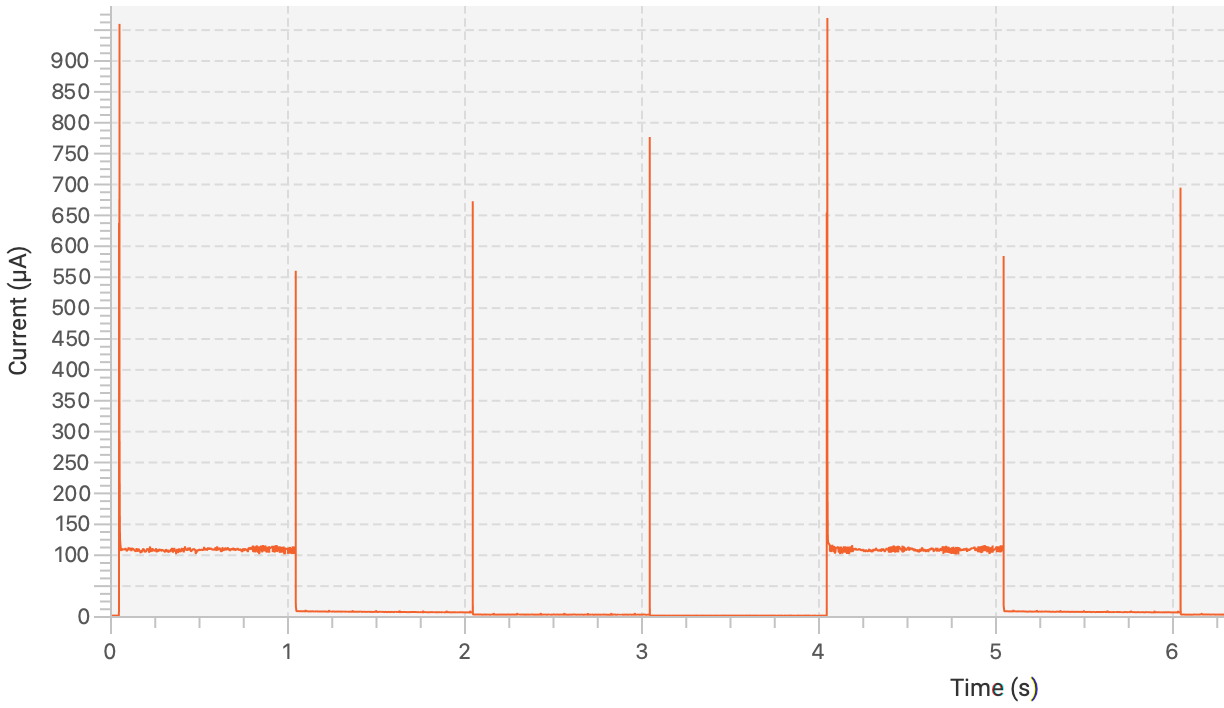
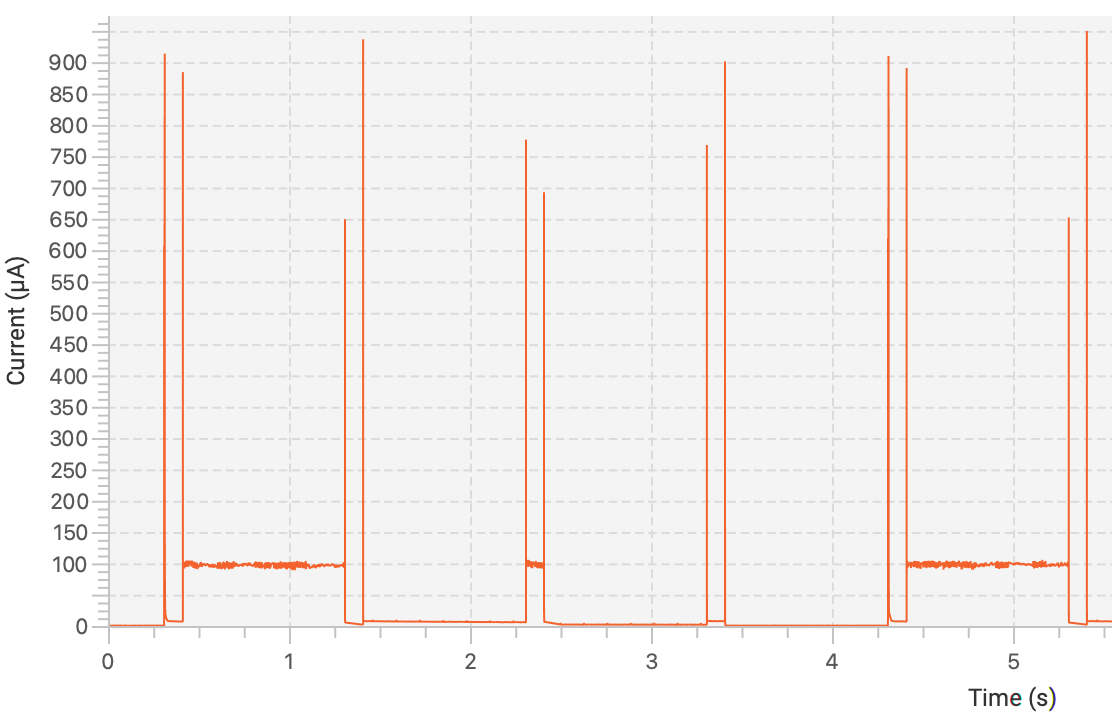
various changes, alternating deepSleep/alarm calls fixed

diff --git a/src/stm32.cpp b/src/stm32.cpp
@@ -33,7 +33,7 @@ using namespace jeeh;
 //------------------------------------------------------------------------ SWO
 
 #if !(STM32G0 | STM32L0) // Cortex M0+ doesn't support ITM
-                         //
+
 void jeeh::swoInit (uint32_t baud, uint32_t hz) {
     constexpr IoReg<0xE000'0000> ITM;
     enum { TER=0xE00, TPR=0xE40, TCR=0xE80, LAR=0xFB0 };
@@ -264,34 +264,30 @@ void init (bool lse) {
     RCC[BDCR](15) = 1;                // RTCEN
 
     RTC[WPR] = 0xCA;  // disable write protection, [1] p.803
-    RTC[WPR] = 0x53;
+    RTC[WPR] = 0x53;  // ... and leave it unlocked from now on
+
     RTC[CR](5) = 1;   // BYPSHAD, this is faster than waiting for RSF
-    RTC[WPR] = 0xFF;  // re-enable write protection
+
+    SCB[0x10](4) = 1; // SEVONPEND
 }
 
 void sleepNow (int mode) {
-    // TODO probably needs a BlockIRQ here
+    BlockIRQ irq;
     PWR[0x00](0, 3) = mode; // CR1: LPMS
-    SCB[0x10](4) = 1; // SEVONPEND
     SCB[0x10](2) = 1; // SLEEPDEEP
     asm ("wfe");
     SCB[0x10](2) = 0; // ~SLEEPDEEP
 }
 
-void deepSleep (uint16_t ms, int mode) {
+bool deepSleep (uint16_t ms, int mode) {
     assert(ms <= 16'000);
     auto sel = 3;
-    auto count = (1000*ms) / 61;
+    auto count = (100'000*ms) / 6104; // 61.035 us, but need to avoid overflow
     while (count >= 32768) {
         --sel;
         count /= 2;
     }
-
-#if STM32G4 | STM32WL
-    RTC[SCR] = 1<<2;    // CWUTF
-#else
-    RTC[ISR](10) = 0;   // clear WUTF
-#endif
+    assert(sel >= 0);
 
 #if STM32WL
     EXTI[0x00](20) = 1; // RT20 in RTSR1
@@ -301,31 +297,48 @@ void deepSleep (uint16_t ms, int mode) {
     EXTI[0x04](20) = 1; // EM20 in EMR1
 #endif
 
-    RTC[WPR] = 0xCA;             // disable write protection
-    RTC[WPR] = 0x53;
     RTC[CR](10) = 0;             // ~WUTE
-    while (RTC[ISR](2) == 0) {} // wait for WUTWF
+    while (RTC[ISR](2) == 0) {}  // wait for WUTWF
 
     RTC[WUTR] = count;
     RTC[CR](0,3) = sel;
 
     RTC[CR](14) = 1;             // WUTIE
     RTC[CR](10) = 1;             // WUTE
-    RTC[WPR] = 0xFF;             // re-enable write protection
 
-    auto todLast = towMillis();
+    auto todLast = getDate().todMillis();
     sleepNow(mode);
-    ticker.skip(towMillis() - todLast); // TODO wraparound
+    ticker.skip(getDate().todMillis() - todLast); // TODO wraparound
+
+    RTC[CR](10) = 0;    // ~WUTE: always disable, even if it didn't trigger
+    if (!RTC[ISR](10))  // ~WUTF
+        return false;
+
+#if STM32G4 | STM32WL
+    RTC[SCR] = 1<<2;    // CWUTF
+#else
+    RTC[ISR](10) = 0;   // clear WUTF
+#endif
+    return true;
 }
 
-void alarm (uint32_t ms, int mode) {
-    (void) ms;
+bool waitAlarm (int mode) {
+    sleepNow(mode);
+
+    if (!RTC[ISR](8))   // ~ALRAF
+        return false;
+    RTC[CR](8) = 0;     // ~ALRAE: only disable once it has triggered
 
 #if STM32G4 | STM32WL
     RTC[SCR] = 1<<0;    // CALRAF
 #else
     RTC[ISR](8) = 0;    // clear ALRAF
 #endif
+    return true;
+}
+
+bool alarm (uint32_t ms, int mode) {
+    (void) ms;
 
 #if STM32WL
     EXTI[0x00](18) = 1; // RT18 in RTSR1
@@ -335,8 +348,6 @@ void alarm (uint32_t ms, int mode) {
     EXTI[0x04](18) = 1; // EM18 in EMR1
 #endif
 
-    RTC[WPR] = 0xCA;             // disable write protection
-    RTC[WPR] = 0x53;
     RTC[CR](8) = 0;             // ~ALRAE
     while (RTC[ISR](0) == 0) {} // wait for ALRAWF
 
@@ -347,9 +358,8 @@ void alarm (uint32_t ms, int mode) {
 
     RTC[CR](12) = 1;             // ALRAIE
     RTC[CR](8) = 1;              // ALRAE
-    RTC[WPR] = 0xFF;             // re-enable write protection
 
-    sleepNow(mode);
+    return waitAlarm(mode);
 }
 
 DateTime getDate () {
@@ -365,7 +375,7 @@ DateTime getDate () {
     dt.ss = (tod & 0xF) + 10 * ((tod>>4) & 0x7);
     dt.mm = ((tod>>8) & 0xF) + 10 * ((tod>>12) & 0x7);
     dt.hh = ((tod>>16) & 0xF) + 10 * ((tod>>20) & 0x3);
-    dt.ww = (doy>>13) & 0x7;
+    dt.wd = (doy>>13) & 0x7;
     dt.dy = (doy & 0xF) + 10 * ((doy>>4) & 0x3);
     dt.mo = ((doy>>8) & 0xF) + 10 * ((doy>>12) & 0x1);
     // works until end 2063, will fail (i.e. roll over) in 2064 !
@@ -377,15 +387,7 @@ uint32_t getSecs () {
     return getDate(); // let DateTime::operator uint32_t do the conversion
 }
 
-uint32_t towMillis () {
-    auto dt = rtc::getDate();
-    return (((((dt.ww-1)*7)+dt.hh)*60+dt.mm-1)*60+dt.ss)*1000+(dt.ff*1000)/256;
-}
-
 void set (DateTime const& dt) {
-    RTC[WPR] = 0xCA;  // disable write protection, [1] p.803
-    RTC[WPR] = 0x53;
-
     RTC[ISR](7) = 1;             // set INIT
     while (RTC[ISR](6) == 0) {}  // wait for INITF
     RTC[TR] = (dt.ss + 6 * (dt.ss/10)) |
@@ -395,8 +397,6 @@ void set (DateTime const& dt) {
         ((dt.mo + 6 * (dt.mo/10)) << 8) |
         ((dt.yr + 6 * (dt.yr/10)) << 16);
     RTC[ISR](7) = 0;             // clear INIT
-
-    RTC[WPR] = 0xFF;  // re-enable write protection
 }
 
 uint32_t getReg (int reg) {

diff --git a/include/arch/sys.h b/include/arch/sys.h
@@ -195,15 +195,15 @@ class DateTime {
     }
 
 public:
-    uint8_t yr, mo, dy, ww, hh, mm, ss, ff =0;
+    uint8_t yr, mo, dy, wd, hh, mm, ss, ff =0;
 
     constexpr DateTime (int y, int m, int d, int h =0, int i =0, int s =0)
-        : yr (y % 100), mo (m), dy (d), ww (1), hh (h), mm (i), ss (s) {}
+        : yr (y % 100), mo (m), dy (d), wd (1), hh (h), mm (i), ss (s) {}
 
     // sample input: d = "Jan  1 2000", t = "12:34:56"
     constexpr DateTime (char const* d =__DATE__, char const* t =__TIME__)
         : yr (conv2d(d+9)), mo (month2d(d)), dy (conv2d(d+4)),
-          ww (1), hh (conv2d(t)), mm (conv2d(t+3)), ss (conv2d(t+6)) {}
+          wd (1), hh (conv2d(t)), mm (conv2d(t+3)), ss (conv2d(t+6)) {}
 
     explicit DateTime (uint32_t t) {
         ss = t % 60;
@@ -212,7 +212,7 @@ public:
         t /= 60;
         hh = t % 24;
         uint16_t days = t / 24;
-        ww = days % 7 + 1;
+        wd = days % 7 + 1;
         uint8_t leap;
         for (yr = 0; ; ++yr) {
             leap = yr % 4 == 0;
@@ -240,6 +240,10 @@ public:
         days += 365 * yr + (yr + 3) / 4 - 1;
         return ((days * 24L + hh) * 60 + mm) * 60 + ss;
     }
+
+    uint32_t todMillis () {
+        return ((hh*60 + mm-1)*60 + ss)*1000 + (ff*1000)/256;
+    }
 };
 
 namespace rtc {
@@ -247,12 +251,11 @@ namespace rtc {
     void init (bool lse =true);
     void deinit ();
 
-    void deepSleep (uint16_t ms, int mode =0);
-    void alarm (uint32_t ms, int mode =0);
+    bool deepSleep (uint16_t ms, int mode =0);
+    bool alarm (uint32_t ms, int mode =0);
 
     DateTime getDate ();
     uint32_t getSecs ();
-    uint32_t towMillis ();
 
     void set (DateTime const& dt);
     void set (uint32_t t);
@@ -262,7 +265,7 @@ namespace rtc {
 } // namespace rtc
 
 namespace dog {
-    int resetCause (); // watchdog: -1, nrst: 1, power: 2, other: 0
+    int resetCause (); // power: 2, nrst: 1, other: 0, watchdog: -1
 
     void init (int rate =6);   // max timeout, 0 ≈ 500 ms, 6 ≈ 32 s
                                //

diff --git a/examples/sleep/alarm.cpp b/examples/sleep/alarm.cpp
@@ -11,10 +11,14 @@ int main () {
     slowClock();
 
     rtc::init();
-    rtc::alarm(1000, 0); // STOP0
-    rtc::alarm(1000, 1); // STOP1
-    rtc::alarm(1000, 2); // STOP2
-    rtc::alarm(1000, 4); // SHUTDOWN
+    rtc::deepSleep(100, 1); // 100 ms STOP 1:   periodic timer
+    rtc::alarm(1000, 0);    // 900 ms STOP 0:   alarm
+    rtc::deepSleep(100, 2); // 100 ms STOP 2:   periodic timer
+    rtc::alarm(1000, 1);    // 900 ms STOP 1:   alarm
+    rtc::deepSleep(100, 0); // 100 ms STOP 0:   periodic timer
+    rtc::alarm(1000, 2);    // 900 ms STOP 2:   alarm
+    rtc::deepSleep(100, 1); // 100 ms STOP 1:   periodic timer
+    rtc::alarm(1000, 4);    // 900 ms SHUTDOWN: alarm then RESET
 
     constexpr Pin led (LED); led.mode("P"); // never reached
     while (true) { led.toggle(); sys::wait(100); }

diff --git a/tests/basic/t22-clock.cpp b/tests/basic/t22-clock.cpp
@@ -16,8 +16,8 @@ int main () {
 #endif
     rtc::set({ 1, 2, 3, 11, 22, 33 });
 
-    auto dt1 = rtc::towMillis();
-    logf("1: %d", dt1);
+    auto ms1 = rtc::getDate().todMillis();
+    logf("1: %d", ms1);
 
     Pin led (LED);
     led.mode("P");
@@ -27,8 +27,8 @@ int main () {
         led.toggle();
     }
 
-    auto dt2 = rtc::towMillis();
-    logf("2: %d", dt2);
+   auto ms2 = rtc::getDate().todMillis();
+    logf("2: %d", ms2);
     itmFlush();
 
     for (auto i = 0; i < 5; ++i) {
@@ -37,9 +37,9 @@ int main () {
     }
     fastClock();
 
-    auto dt3 = rtc::towMillis();
-    logf("3: %d", dt3);
+    auto ms3 = rtc::getDate().todMillis();
+    logf("3: %d", ms3);
 
-    auto ms = dt3 - dt1;
+    auto ms = ms3 - ms1;
     assert(220 <= ms && ms <= 350);
 }

diff --git a/tests/basic/t18-rtc.cpp b/tests/basic/t18-rtc.cpp
@@ -37,15 +37,15 @@ int main () {
 
     for (auto i = 0; i < 5; ++i) {
         sys::wait(100);
-        auto ms = rtc::todMillis();
+        auto ms = rtc::getDate().todMillis();
         logf("%4d: %d.%03d s", i, (ms / 1000) % 100, ms % 1000);
     }
 
     constexpr int delays [] = { 50, 100, 200, 100, 50 };
     for (auto ms : delays) {
-        auto t1 = rtc::todMillis();
+        auto t1 = rtc::getDate().todMillis();
         sys::wait(ms);
-        auto t2 = rtc::todMillis();
+        auto t2 = rtc::getDate().todMillis();
         logf("%3d ms: %d", ms, t2 - t1);
     }
 

diff --git a/tests/basic/t23-lowpower.cpp b/tests/basic/t23-lowpower.cpp
@@ -34,11 +34,11 @@ int main () {
     constexpr int delays [] = { 30, 40, 50, 100, 200 };
     for (auto ms : delays) {
         itmFlush();
-        auto t1 = rtc::towMillis();
+        auto t1 = rtc::getDate();
         sys::wait(ms);
-        auto t2 = rtc::towMillis();
+        auto t2 = rtc::getDate();
 
-        int n = t2 - t1;
+        int n = t2.todMillis() - t1.todMillis();
         logf("%d ms: %d", ms, n);
         assert(9*ms <= 10*n && 10*n <= 11*ms); // +/- 10% TODO g431 uses LSI
     }
